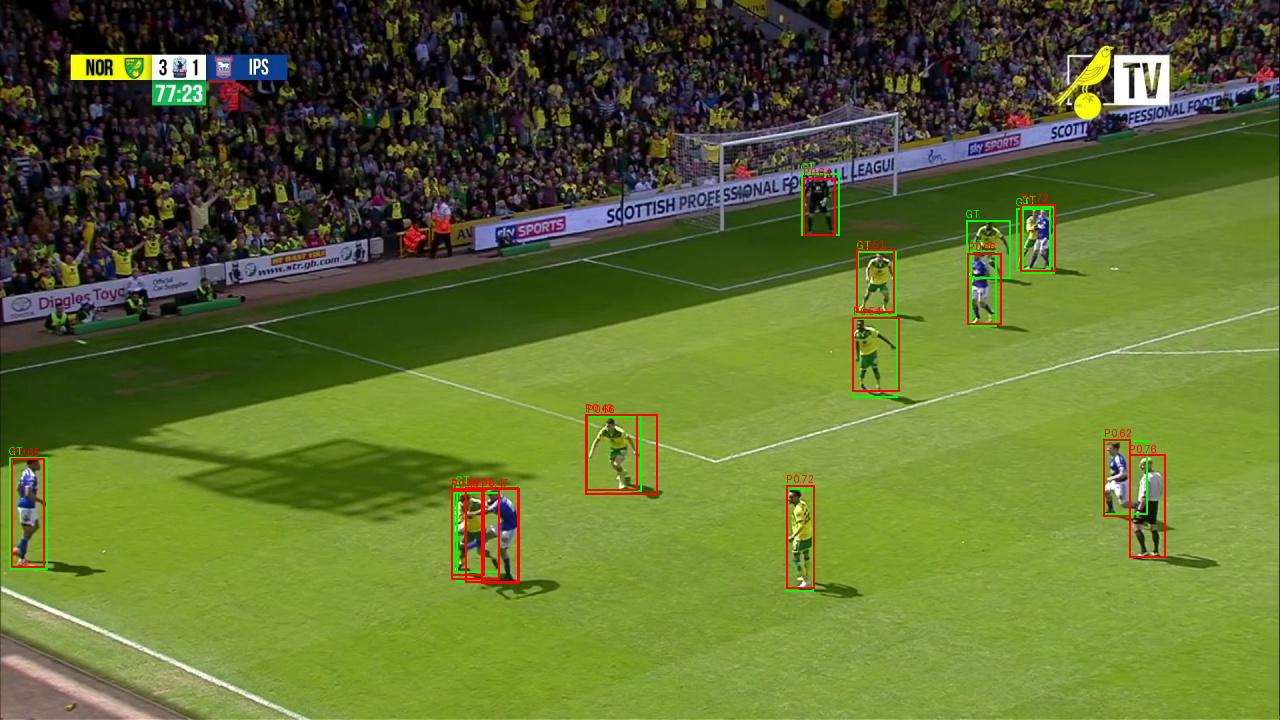
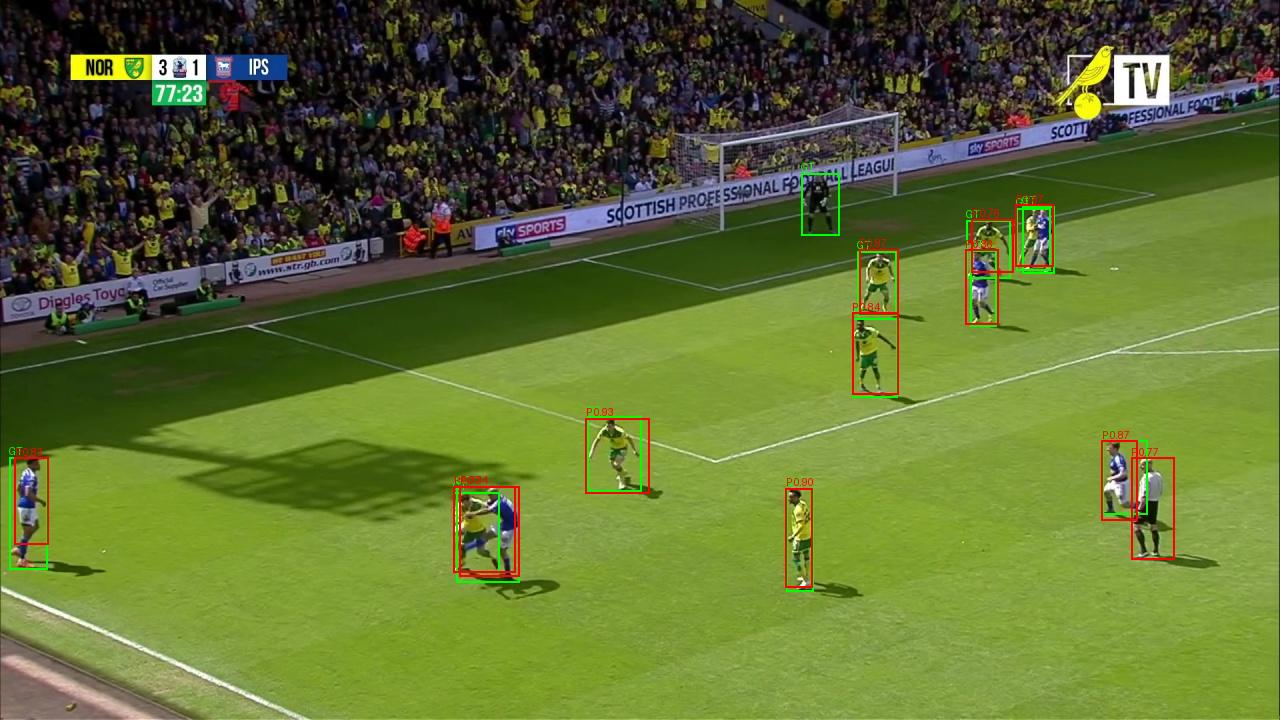
training test

diff --git a/yolo/TestYOLO.py b/yolo/TestYOLO.py
@@ -5,89 +5,7 @@ from PIL import Image, ImageDraw, ImageFont
 
 from ultralytics import YOLO
 
-
-def list_val_folders(val_root: Path) -> List[Path]:
-	return sorted([p for p in val_root.iterdir() if p.is_dir()])
-
-
-def resolve_image_path(folder_path: Path, image_number: int) -> Path:
-	img_dir = folder_path / "img1"
-	if not img_dir.exists():
-		raise FileNotFoundError(f"Missing img1 folder in {folder_path}")
-
-	candidates = []
-	for pad in (6, 8):
-		stem = str(image_number).zfill(pad)
-		for ext in (".jpg", ".jpeg", ".png"):
-			candidates.append(img_dir / f"{stem}{ext}")
-
-	for candidate in candidates:
-		if candidate.exists():
-			return candidate
-
-	images = sorted([p for p in img_dir.iterdir() if p.is_file()])
-	if not images:
-		raise FileNotFoundError(f"No images found in {img_dir}")
-
-	index = image_number - 1
-	if 0 <= index < len(images):
-		return images[index]
-
-	raise FileNotFoundError(
-		f"Image number {image_number} not found as file name or index in {img_dir}"
-	)
-
-
-def parse_gt_boxes(gt_path: Path, frame_id: int) -> List[Tuple[float, float, float, float]]:
-	boxes = []
-	if not gt_path.exists():
-		return boxes
-
-	with gt_path.open("r", encoding="utf-8") as handle:
-		for line in handle:
-			line = line.strip()
-			if not line:
-				continue
-			parts = [p.strip() for p in line.split(",")]
-			if len(parts) < 6:
-				continue
-			try:
-				frame = int(float(parts[0]))
-			except ValueError:
-				continue
-			if frame != frame_id:
-				continue
-			try:
-				left = float(parts[2])
-				top = float(parts[3])
-				width = float(parts[4])
-				height = float(parts[5])
-			except ValueError:
-				continue
-			boxes.append((left, top, left + width, top + height))
-
-	return boxes
-
-
-def iou(box_a: Tuple[float, float, float, float], box_b: Tuple[float, float, float, float]) -> float:
-	ax1, ay1, ax2, ay2 = box_a
-	bx1, by1, bx2, by2 = box_b
-
-	inter_x1 = max(ax1, bx1)
-	inter_y1 = max(ay1, by1)
-	inter_x2 = min(ax2, bx2)
-	inter_y2 = min(ay2, by2)
-
-	inter_w = max(0.0, inter_x2 - inter_x1)
-	inter_h = max(0.0, inter_y2 - inter_y1)
-	inter_area = inter_w * inter_h
-
-	area_a = max(0.0, ax2 - ax1) * max(0.0, ay2 - ay1)
-	area_b = max(0.0, bx2 - bx1) * max(0.0, by2 - by1)
-	union = area_a + area_b - inter_area
-	if union == 0:
-		return 0.0
-	return inter_area / union
+from data_helpers import iou, list_val_folders, parse_gt_boxes, resolve_image_path
 
 
 def run_detection(image_path: Path, model_path: str, conf: float):
@@ -143,13 +61,17 @@ def draw_boxes(
 def main() -> int:
 	folder_number = 4
 	image_number = 1
-	model_path = "yolov8n.pt"
+	#model_path = "yolov8n.pt"
+
 	conf_threshold = 0.25
 	output_path = Path("output_with_boxes.jpg")
 	show_image = True
 
-	repo_root = Path(__file__).resolve().parent
+	repo_root = Path(__file__).resolve().parent.parent
 	val_root = repo_root / "dataset_football" / "val"
+	model_path = str(
+		repo_root / "runs" / "train" / "football_yolo26n2" / "weights" / "best.pt"
+	)
 	if not val_root.exists():
 		raise FileNotFoundError(f"Validation folder not found: {val_root}")
 

diff --git a/yolo/TrainYOLO.py b/yolo/TrainYOLO.py
@@ -1,0 +1,102 @@
+from pathlib import Path
+
+from ultralytics import YOLO
+
+REPO_ROOT = Path(__file__).resolve().parent.parent
+DATASET_ROOT = REPO_ROOT / "dataset_football"
+YAML_PATH = REPO_ROOT / "yolo" / "football.yaml"
+
+
+def convert_split(split: str) -> None:
+	split_dir = DATASET_ROOT / split
+	for seq_dir in sorted(split_dir.iterdir()):
+		if not seq_dir.is_dir():
+			continue
+
+		img1_dir = seq_dir / "img1"
+		gt_path = seq_dir / "gt" / "gt.txt"
+		seqinfo_path = seq_dir / "seqinfo.ini"
+		if not img1_dir.exists():
+			continue
+
+		img_w, img_h = 1280, 720
+		if seqinfo_path.exists():
+			for line in seqinfo_path.read_text().splitlines():
+				if line.startswith("imWidth="):
+					img_w = int(line.split("=")[1])
+				elif line.startswith("imHeight="):
+					img_h = int(line.split("=")[1])
+
+		frame_boxes: dict[int, list] = {}
+		if gt_path.exists():
+			with gt_path.open("r", encoding="utf-8") as fh:
+				for line in fh:
+					parts = [p.strip() for p in line.strip().split(",")]
+					if len(parts) < 7:
+						continue
+					try:
+						frame = int(float(parts[0]))
+						active = int(float(parts[6]))
+						left = float(parts[2])
+						top = float(parts[3])
+						w = float(parts[4])
+						h = float(parts[5])
+					except ValueError:
+						continue
+					if active != 1:
+						continue
+					frame_boxes.setdefault(frame, []).append((left, top, w, h))
+
+		for img_path in sorted(img1_dir.iterdir()):
+			if img_path.suffix.lower() not in (".jpg", ".jpeg", ".png"):
+				continue
+			stem = img_path.stem
+			frame_id = int(stem) if stem.isdigit() else None
+			boxes = frame_boxes.get(frame_id, []) if frame_id is not None else []
+			label_path = img1_dir / f"{stem}.txt"
+			with label_path.open("w", encoding="utf-8") as lf:
+				for left, top, w, h in boxes:
+					cx = (left + w / 2) / img_w
+					cy = (top + h / 2) / img_h
+					nw = w / img_w
+					nh = h / img_h
+					lf.write(f"0 {cx:.6f} {cy:.6f} {nw:.6f} {nh:.6f}\n")
+
+	print(f"Labels written for split: {split}")
+
+
+def write_yaml() -> None:
+	content = (
+		f"path: {DATASET_ROOT.as_posix()}\n"
+		"train: train\n"
+		"val: val\n"
+		"nc: 1\n"
+		"names: ['player']\n"
+	)
+	YAML_PATH.write_text(content, encoding="utf-8")
+	print(f"Dataset YAML written: {YAML_PATH}")
+
+
+def main() -> int:
+	print("Converting MOT annotations to YOLO labels...")
+	convert_split("train")
+	convert_split("val")
+
+	write_yaml()
+
+	model = YOLO("yolo26n.pt")
+	model.train(
+		data=str(YAML_PATH),
+		epochs=50,
+		imgsz=640,
+		batch=16,
+		workers=0,
+		project=str(REPO_ROOT / "runs" / "train"),
+		name="football_yolo26n",
+	)
+
+	return 0
+
+
+if __name__ == "__main__":
+	raise SystemExit(main())

diff --git a/yolo/data_helpers.py b/yolo/data_helpers.py
@@ -1,0 +1,86 @@
+from pathlib import Path
+from typing import List, Tuple
+
+
+def list_val_folders(val_root: Path) -> List[Path]:
+	return sorted([p for p in val_root.iterdir() if p.is_dir()])
+
+
+def resolve_image_path(folder_path: Path, image_number: int) -> Path:
+	img_dir = folder_path / "img1"
+	if not img_dir.exists():
+		raise FileNotFoundError(f"Missing img1 folder in {folder_path}")
+
+	candidates = []
+	for pad in (6, 8):
+		stem = str(image_number).zfill(pad)
+		for ext in (".jpg", ".jpeg", ".png"):
+			candidates.append(img_dir / f"{stem}{ext}")
+
+	for candidate in candidates:
+		if candidate.exists():
+			return candidate
+
+	images = sorted([p for p in img_dir.iterdir() if p.is_file()])
+	if not images:
+		raise FileNotFoundError(f"No images found in {img_dir}")
+
+	index = image_number - 1
+	if 0 <= index < len(images):
+		return images[index]
+
+	raise FileNotFoundError(
+		f"Image number {image_number} not found as file name or index in {img_dir}"
+	)
+
+
+def parse_gt_boxes(gt_path: Path, frame_id: int) -> List[Tuple[float, float, float, float]]:
+	boxes = []
+	if not gt_path.exists():
+		return boxes
+
+	with gt_path.open("r", encoding="utf-8") as handle:
+		for line in handle:
+			line = line.strip()
+			if not line:
+				continue
+			parts = [p.strip() for p in line.split(",")]
+			if len(parts) < 6:
+				continue
+			try:
+				frame = int(float(parts[0]))
+			except ValueError:
+				continue
+			if frame != frame_id:
+				continue
+			try:
+				left = float(parts[2])
+				top = float(parts[3])
+				width = float(parts[4])
+				height = float(parts[5])
+			except ValueError:
+				continue
+			boxes.append((left, top, left + width, top + height))
+
+	return boxes
+
+
+def iou(box_a: Tuple[float, float, float, float], box_b: Tuple[float, float, float, float]) -> float:
+	ax1, ay1, ax2, ay2 = box_a
+	bx1, by1, bx2, by2 = box_b
+
+	inter_x1 = max(ax1, bx1)
+	inter_y1 = max(ay1, by1)
+	inter_x2 = min(ax2, bx2)
+	inter_y2 = min(ay2, by2)
+
+	inter_w = max(0.0, inter_x2 - inter_x1)
+	inter_h = max(0.0, inter_y2 - inter_y1)
+	inter_area = inter_w * inter_h
+
+	area_a = max(0.0, ax2 - ax1) * max(0.0, ay2 - ay1)
+	area_b = max(0.0, bx2 - bx1) * max(0.0, by2 - by1)
+	union = area_a + area_b - inter_area
+	if union == 0:
+		return 0.0
+	return inter_area / union

diff --git a/yolo/DeviceDetect.py b/yolo/DeviceDetect.py
@@ -1,0 +1,4 @@
+import torch
+print("CUDA available:", torch.cuda.is_available())
+print("Device count:", torch.cuda.device_count())
+print("Device name:", torch.cuda.get_device_name(0) if torch.cuda.is_available() else "CPU")

diff --git a/README.md b/README.md
@@ -1,0 +1,10 @@
+Use the following command to check CUDA version on your GPU
+```bash
+nvidia-smi
+```
+
+Might have to install different version of torch if DeviceDetect.py doesn't find your GPU
+```bash
+pip uninstall torch torchvision torchaudio -y
+pip install torch torchvision torchaudio --index-url https://download.pytorch.org/whl/cu121
+```
